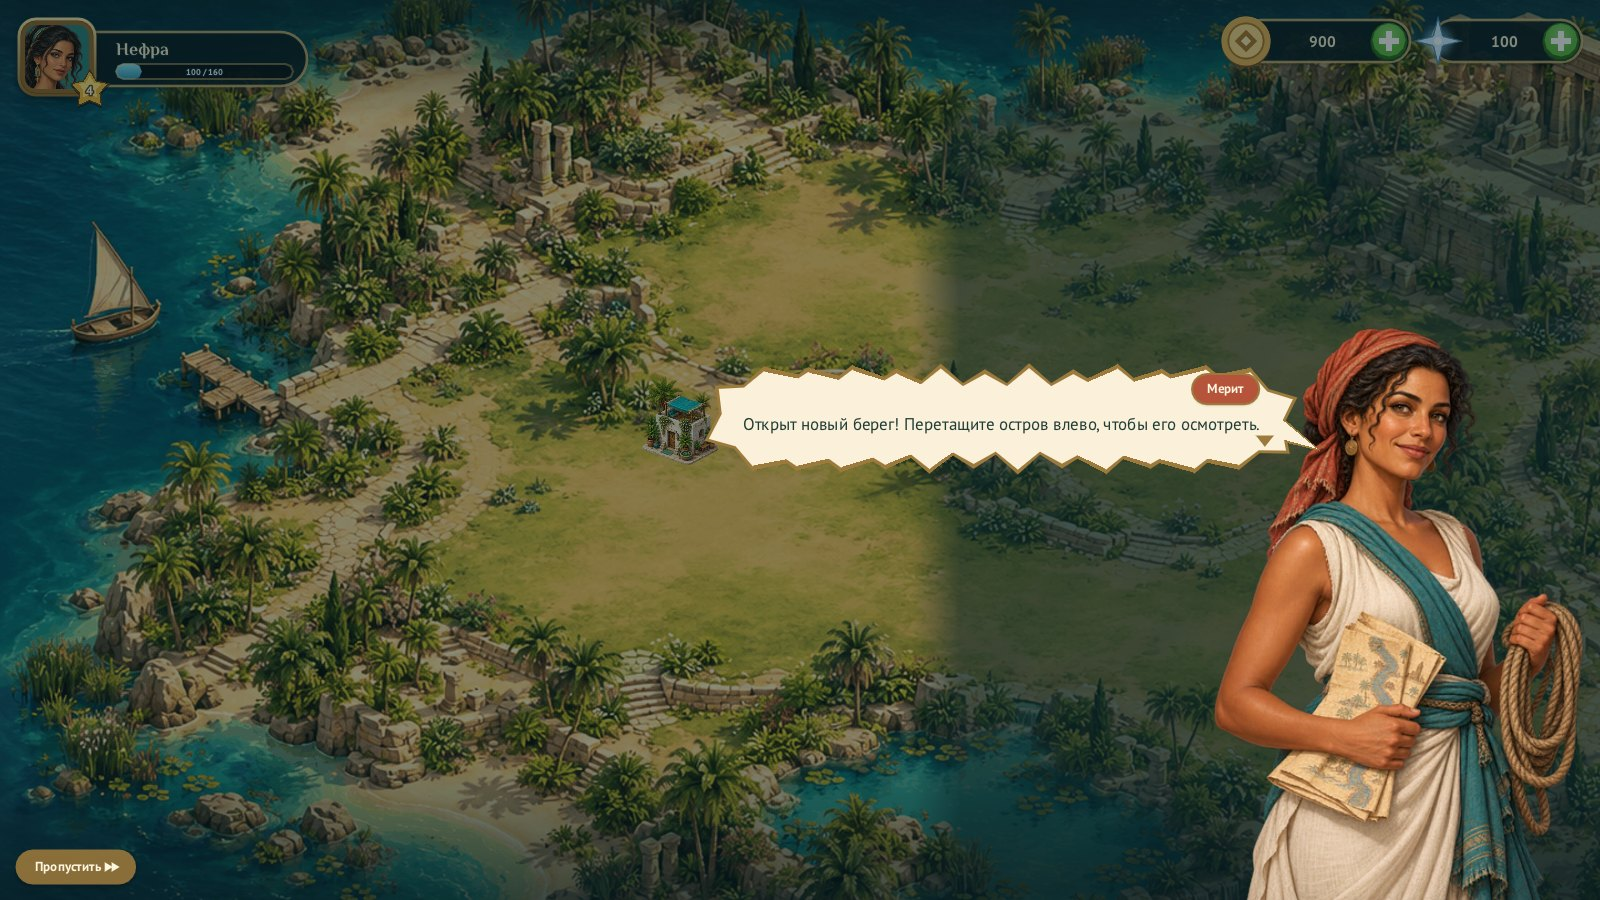
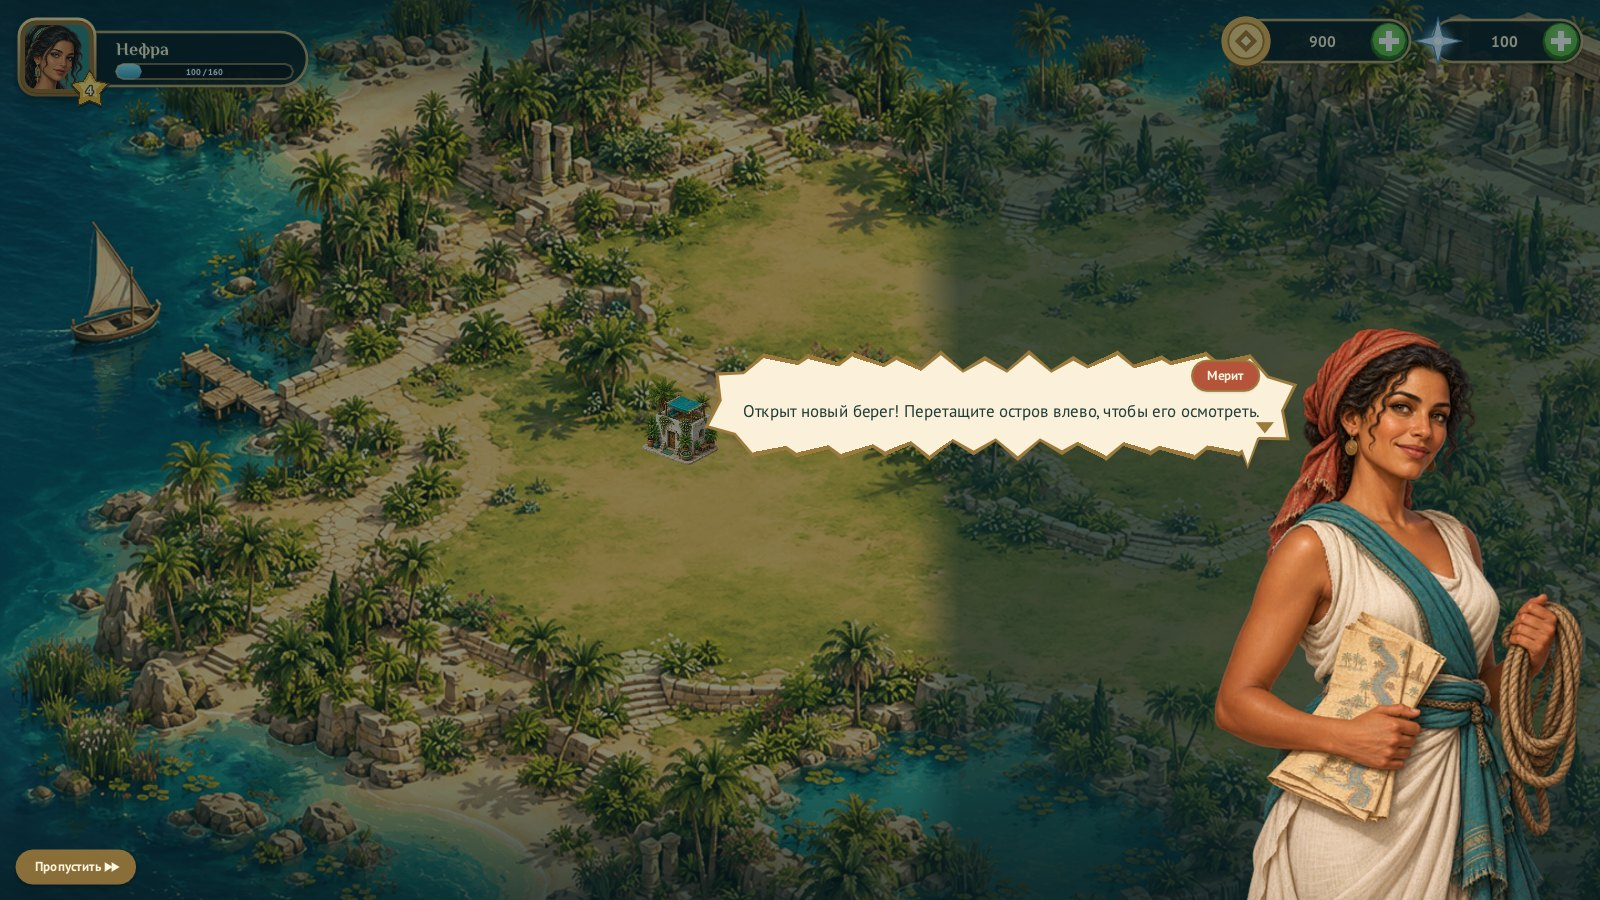
Speech tails: small, on the bottom edge, smooth and seamless
On the iPad the speech tail was long, jagged and showed a seam where it met
the bubble. The jagged rim came from the renderer: filled polygons feather
their edge along a normal that assumed clockwise points, so the
counter-clockwise quads of the curved tail feathered inward. fill_path now
checks the winding and always feathers outward, which fixes any polygon a
game draws either way round.

The tail itself is now one convex polygon, a straight leading edge and a
bowed trailing one, about 30% of its old size: 20 units long, 14 wide at
the root, with its root under the body's rim so no seam shows. In the iPad
staging the bubble sits with its bottom just above the speaker's mouth and
the tail leaves the bottom edge near the speaker, leaning toward them.
Thought puffs and shout spikes come from the bottom edge too.

Claude-Session: https://claude.ai/code/session_01Gft4mzCEPD54RSucvEGAHH

Changed region(s): [[0.4375, 0.3733, 0.8125, 0.5289]]

diff --git a/engine/story.c b/engine/story.c
@@ -138,46 +138,49 @@ static vec2 tail_base(rect box, vec2 tip, float radius, vec2 *along)
     return base;
 }
 
-/* A tapered tail along a quadratic curve from `root` (inside the body) to
- * `tip`: the comic-book "comma". It is drawn as a strip of convex quads in one
- * colour, so their soft edges overlap without seams. `grow` widens the strip
- * for the outline pass and pushes its point a little past the tip. */
-static void curved_tail(vec2 root, vec2 ctrl, vec2 tip, float half, float grow, color c)
+#define TAIL_LEN 20.0f    /* a short comma: it says who speaks, it does not reach them */
+#define TAIL_HALF 7.0f
+
+/* The speech tail as one convex polygon: a straight leading edge from the root
+ * to the tip and a trailing edge that bows outward, the lettered "comma".
+ * One polygon has one smooth rim and no seams. `grow` widens it for the
+ * outline pass and pushes its point a little past the tip. */
+static int tail_shape(vec2 base, vec2 dir, vec2 along, float len, float half, float grow, vec2 *out)
 {
-    enum { N = 12 };
-    vec2 left[N + 1], right[N + 1];
-    for (int i = 0; i <= N; i++) {
+    enum { N = 8 };
+    vec2 side = vec2_dot(along, v2(-dir.y, dir.x)) >= 0 ? along : vec2_scale(along, -1);
+    vec2 root = vec2_sub(base, vec2_scale(dir, 8));   /* inside the body, under its rim */
+    vec2 tip = vec2_add(base, vec2_scale(dir, len + grow * 1.5f));
+    vec2 a = vec2_add(root, vec2_scale(side, half + grow)), b = vec2_sub(root, vec2_scale(side, half + grow));
+    vec2 ctrl = vec2_add(vec2_lerp(b, tip, .5f), vec2_scale(side, -(half + grow) * .7f));
+    int n = 0;
+    out[n++] = a;
+    out[n++] = tip;
+    for (int i = 1; i < N; i++) {   /* tip back to b along the bowed edge */
         float t = (float)i / N, u = 1 - t;
-        vec2 p = vec2_add(vec2_add(vec2_scale(root, u * u), vec2_scale(ctrl, 2 * u * t)), vec2_scale(tip, t * t));
-        vec2 d = vec2_norm(vec2_add(vec2_scale(vec2_sub(ctrl, root), 2 * u), vec2_scale(vec2_sub(tip, ctrl), 2 * t)));
-        if (i == N) p = vec2_add(p, vec2_scale(d, grow * 1.3f));
-        float w = half * powf(u, .85f) + grow;
-        vec2 n = v2(-d.y * w, d.x * w);
-        left[i] = vec2_add(p, n);
-        right[i] = vec2_sub(p, n);
+        out[n++] = vec2_add(vec2_add(vec2_scale(tip, u * u), vec2_scale(ctrl, 2 * u * t)), vec2_scale(b, t * t));
     }
-    for (int i = 0; i < N; i++) draw_poly((vec2[]){left[i], left[i + 1], right[i + 1], right[i]}, 4, c);
+    out[n++] = b;
+    return n;
 }
 
-/* Speech: a rounded body and a curved, tapered tail drawn as one shape. The
+/* Speech: a rounded body and a short tapered tail drawn as one shape. The
  * outline pass draws both a little larger in the edge colour, the fill pass
  * draws both on top, with the tail's root reaching into the body so no seam
- * shows. The tail bows gently away from the body's centre line, as lettered
- * tails do, so it reads as drawn rather than as a ruler-straight wedge. */
+ * shows where they meet. */
 static void speech_shape(rect box, vec2 tip, color fill, color edge, bool tail)
 {
     float r = minf(24, box.size.h * .42f);
-    vec2 along, base = tail_base(box, tip, r, &along);
-    vec2 dir = vec2_norm(vec2_sub(tip, base)), side = v2(-dir.y, dir.x);
-    float len = vec2_dist(base, tip), half = clampf(len * .3f, 9, 16);
-    vec2 root = vec2_sub(base, vec2_scale(dir, 10));   /* inside the body */
-    float bow = vec2_dot(side, vec2_sub(base, rect_center(box))) >= 0 ? 1 : -1;
-    vec2 ctrl = vec2_add(vec2_lerp(base, tip, .45f), vec2_scale(side, bow * len * .22f));
+    vec2 along, base = tail_base(box, tip, r, &along), dir = vec2_norm(vec2_sub(tip, base));
+    float len = minf(TAIL_LEN, vec2_dist(base, tip));
+    vec2 outline[12], body[12];
+    int n = tail ? tail_shape(base, dir, along, len, TAIL_HALF, OUTLINE, outline) : 0;
+    if (tail) tail_shape(base, dir, along, len, TAIL_HALF, 0, body);
     draw_shadow(rect_offset(box, v2(0, 6)), r + 4, 16, rgba(0, 0, 0, 60));
     draw_round_rect(rect_inflate(box, OUTLINE), r + OUTLINE, edge);
-    if (tail) curved_tail(root, ctrl, tip, half, OUTLINE, edge);
+    if (tail) draw_poly(outline, n, edge);
     draw_round_rect(box, r, fill);
-    if (tail) curved_tail(root, ctrl, tip, half, 0, fill);
+    if (tail) draw_poly(body, n, fill);
 }
 
 /* Thought: a cloud of puffs around the body, and shrinking puffs as the tail. */
@@ -431,11 +434,14 @@ void story_frame(float dt)
         vec2 mouth = rect_point(portrait, who->mouth);
         float side = who->right ? -1 : 1;
         float x = who->right ? mouth.x - face.w * .22f - width : mouth.x + face.w * .22f;
-        float y = mouth.y - height * .85f - 10;
+        float y = mouth.y - height - 14;   /* the bubble's bottom just above the mouth */
         bubble = rc(clampf(x, m + reach, rect_max(screen).x - m - reach - width),
                     clampf(y, m + 50, rect_max(screen).y - m - reach - height), width, height);
-        /* the tail aims at the mouth and stops short of the face */
-        tip = vec2_add(mouth, v2(side * face.w * .12f, -2));
+        /* the tail leaves the bottom edge near the speaker and leans toward
+         * their mouth; thought puffs trail further, a shout's spike a little */
+        float drop = kind == BUBBLE_THOUGHT ? 46 : kind == BUBBLE_SHOUT ? 26 : TAIL_LEN;
+        float near = who->right ? rect_max(bubble).x - 44 : bubble.pos.x + 44;
+        tip = v2(near - side * 12, rect_max(bubble).y + drop);
         grow_from = tip;
     } else if (framed_narrow) {
         /* Phones: the story screens of portrait match-3 and visual-novel games

diff --git a/engine/gfx.c b/engine/gfx.c
@@ -152,6 +152,12 @@ static color grad_at(grad g, vec2 p) { return color_lerp(g.top, g.bottom, g.y1 >
 /* Fill a convex path; `soft` is the width of the outer fade (feather or blur). */
 static void fill_path(const vec2 *p, int n, grad g, float soft)
 {
+    /* The soft edge must fade outward whichever way the points wind:
+     * counter-clockwise paths would otherwise feather inward, which reads as
+     * a jagged, see-through rim. */
+    float area = 0;
+    for (int i = 0; i < n; i++) area += p[i].x * p[(i + 1) % n].y - p[(i + 1) % n].x * p[i].y;
+    if (area < 0) soft = -soft;
     vec2 center = v2(0, 0);
     for (int i = 0; i < n; i++) center = vec2_add(center, p[i]);
     center = vec2_scale(center, 1.0f / n);

diff --git a/docs/ENGINE.md b/docs/ENGINE.md
@@ -211,8 +211,9 @@ typedef struct { const char *who, *text; bubble_kind kind; } story_line;   /* sp
   - the balloon **hugs its words**: lines are balanced and the bubble shrinks
     to the widest one, no wider than a comfortable measure, so there is never
     an empty balloon;
-  - the tail is a **curved, tapered comma** that aims at the mouth and stops
-    short of the face, and never crosses one;
+  - the tail is a **short tapered comma** (20 units) on the bubble's bottom
+    edge near the speaker, leaning toward their mouth: it says who speaks
+    without reaching across to them, and never crosses a face;
   - narration (no speaker) is a centred caption with no tail, and a named
     speaker without a portrait (Volcano's dispatcher) gets a name tag on it.
   On phones (framed busts) the line sits in a **dialogue box**, the way the
@@ -236,8 +237,9 @@ typedef struct { const char *who, *text; bubble_kind kind; } story_line;   /* sp
   alike, and one long straight spike to the speaker). Body and tail are drawn
   as one shape — an outline pass of both, then a fill pass of both with the
   tail's root reaching into the body — so no seam shows where they meet. The
-  curved tail is a strip of convex quads in one colour, so their soft edges
-  overlap without seams. Layouts know how far each kind reaches past its box,
+  tail is a single convex polygon (a straight leading edge and a bowed
+  trailing one), so it has one smooth anti-aliased rim. Filled polygons
+  feather outward whichever way their points wind. Layouts know how far each kind reaches past its box,
   so spikes and puffs stay on screen.
 - `story_next()` moves on as a tap would (for timed sequences and captures).
 - `speech_bubble(tip, text, style, …, kind)` is the bubble on its own: placed above
